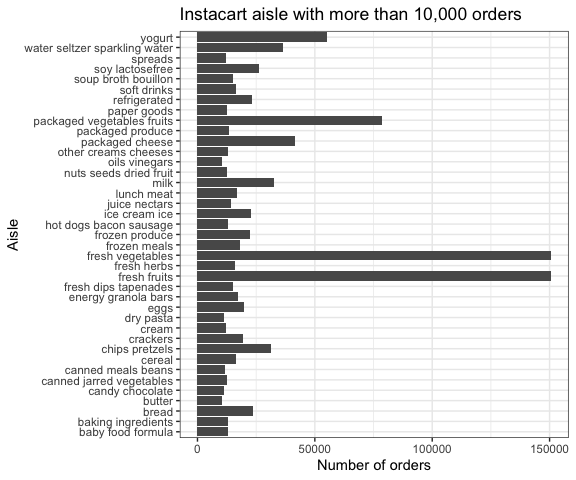
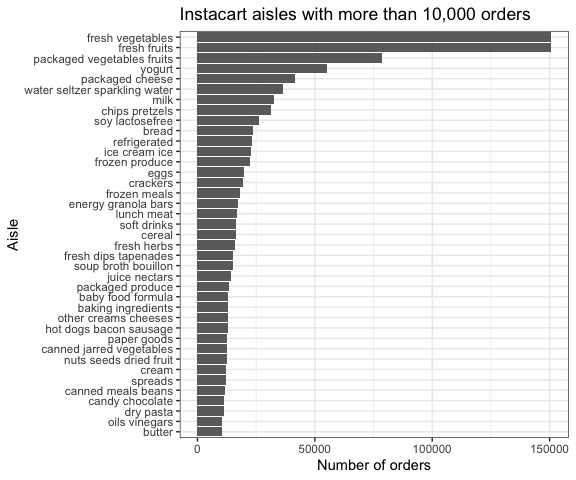
create table for problem 1c concatanating product and n_obs, using pivot_wider, and kable

Changed region(s): [[0.375, 0.0, 0.9688, 0.7812], [0.0312, 0.0625, 0.3125, 0.9062], [0.375, 0.8438, 0.4375, 0.9062]]

diff --git a/p8105_hw3_drl2168.md b/p8105_hw3_drl2168.md
@@ -76,20 +76,50 @@ instacart |>
 | water seltzer sparkling water |            36617 |
 
 The two most ordered from aisles are fresh vegetables and fresh fruits,
-with about 150,000 orders each. Below, you can see
+with about 150,000 orders each. Below, you can see a plot of all aisles
+with more than 10,000 orders.
 
 ``` r
 instacart |> 
   group_by(aisle) |> 
   summarize(n_obs = n()) |> 
   filter(n_obs >=10000) |> 
-  ggplot(aes(y = aisle, x = n_obs)) +
-  geom_bar(stat = "identity") + 
+  ggplot(aes(y = reorder(aisle, n_obs), x = n_obs)) +
+  geom_bar(alpha = .9, stat = "identity") + 
   labs(
-    title = "Instacart aisle with more than 10,000 orders",
+    title = "Instacart aisles with more than 10,000 orders",
     x = "Number of orders",
     y = "Aisle"
   )
 ```
 
 <img src="p8105_hw3_drl2168_files/figure-gfm/aisle plot-1.png" width="90%" />
+
+### Q1c
+
+``` r
+instacart |> 
+  group_by(aisle, product_name) |> 
+  filter(aisle == "baking ingredients" | aisle == "dog food care" | aisle == "packaged vegetables fruits") |> 
+  summarize(n_obs = n()) |> 
+  filter(min_rank(desc(n_obs)) <= 3) |> 
+  mutate(
+    rank = min_rank(desc(n_obs)),
+    item = paste(product_name, " (", as.character(n_obs),")", sep = "")
+         ) |> 
+  select(-product_name, -n_obs) |> 
+  pivot_wider(
+    names_from = aisle,
+    values_from = item
+  ) |> 
+  arrange(rank) |> 
+  kable(col.names = c("Rank", "Baking Ingredients", "Dog Food & Care", "Packaged Vegatables & Fruits"), label = "Most popular items from three aisles", caption = "Item (n)")
+```
+
+| Rank | Baking Ingredients      | Dog Food & Care                                    | Packaged Vegatables & Fruits |
+|-----:|:------------------------|:---------------------------------------------------|:-----------------------------|
+|    1 | Light Brown Sugar (499) | Snack Sticks Chicken & Rice Recipe Dog Treats (30) | Organic Baby Spinach (9784)  |
+|    2 | Pure Baking Soda (387)  | Organix Chicken & Brown Rice Recipe (28)           | Organic Raspberries (5546)   |
+|    3 | Cane Sugar (336)        | Small Dog Biscuits (26)                            | Organic Blueberries (4966)   |
+
+Item (n)
